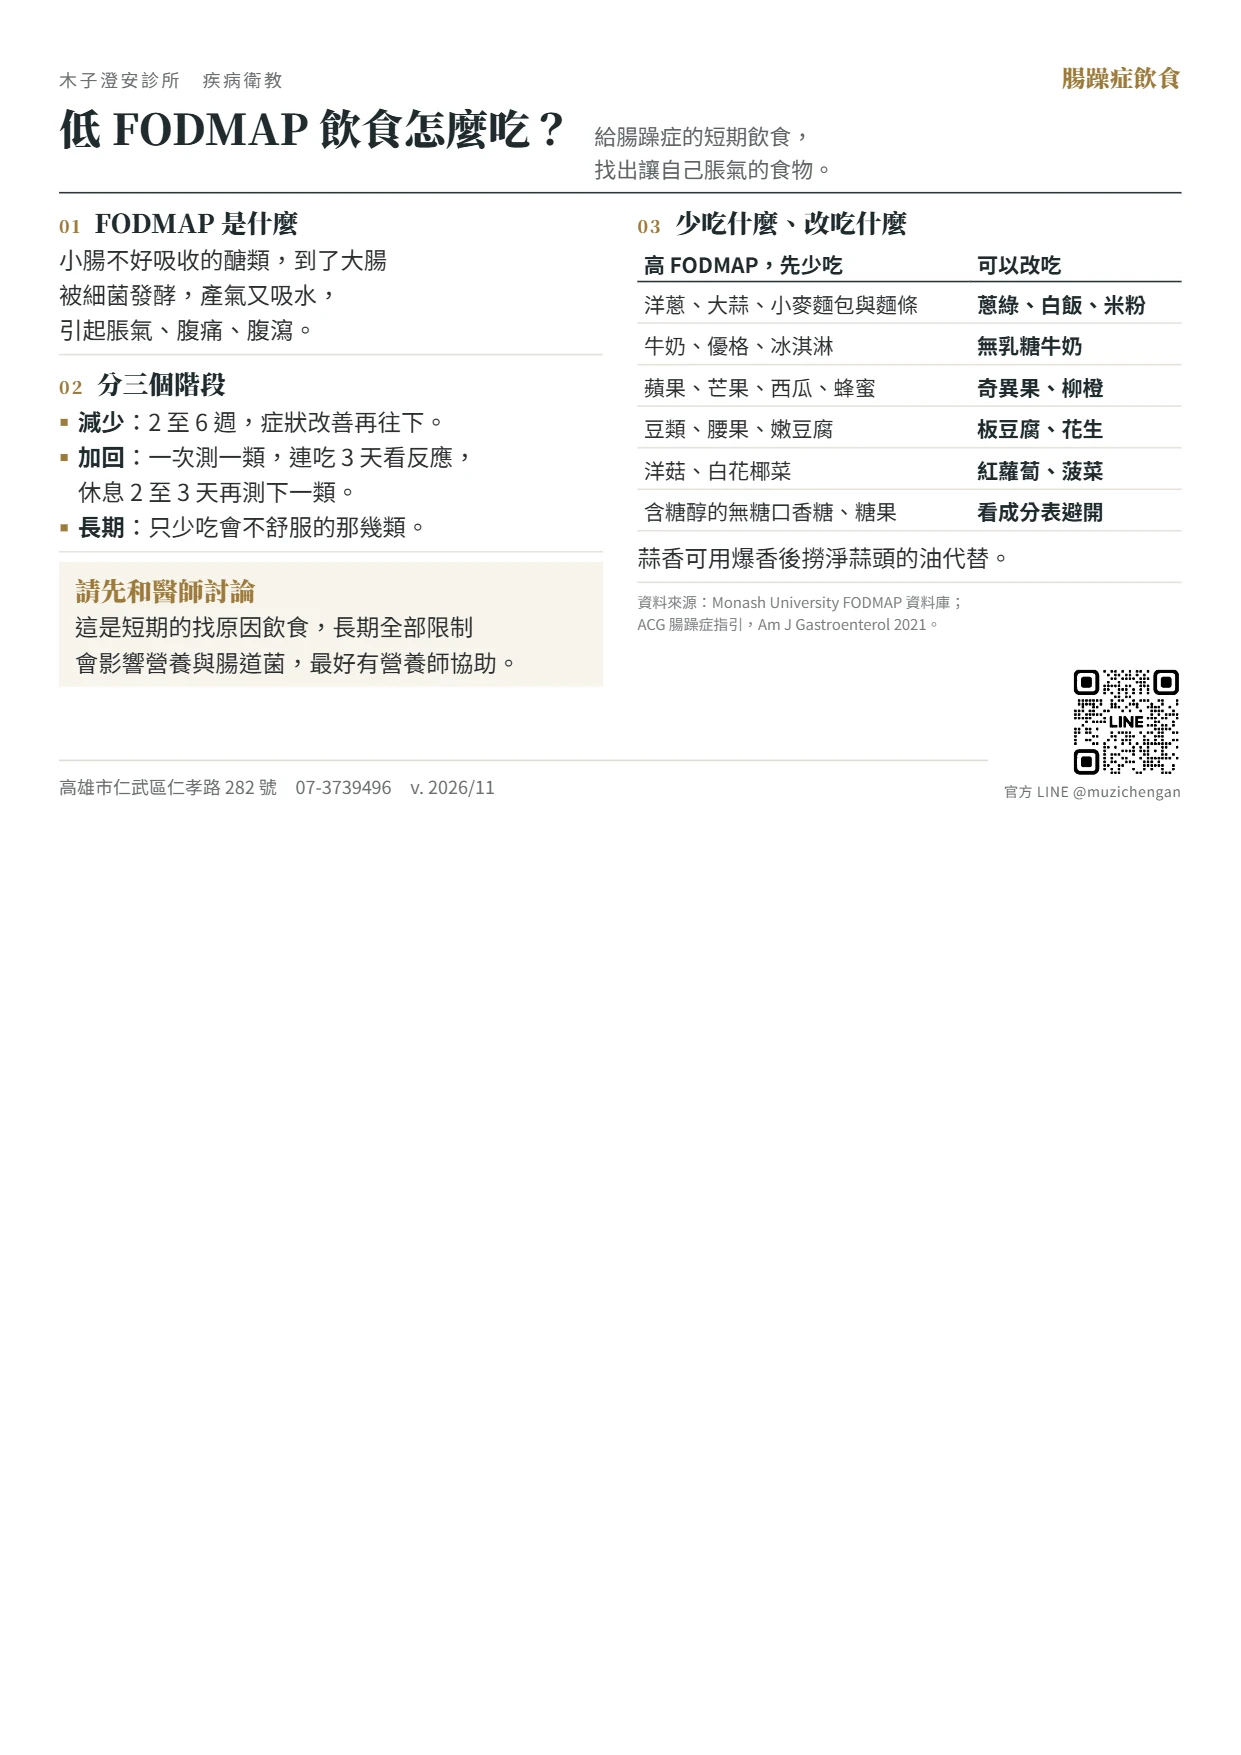
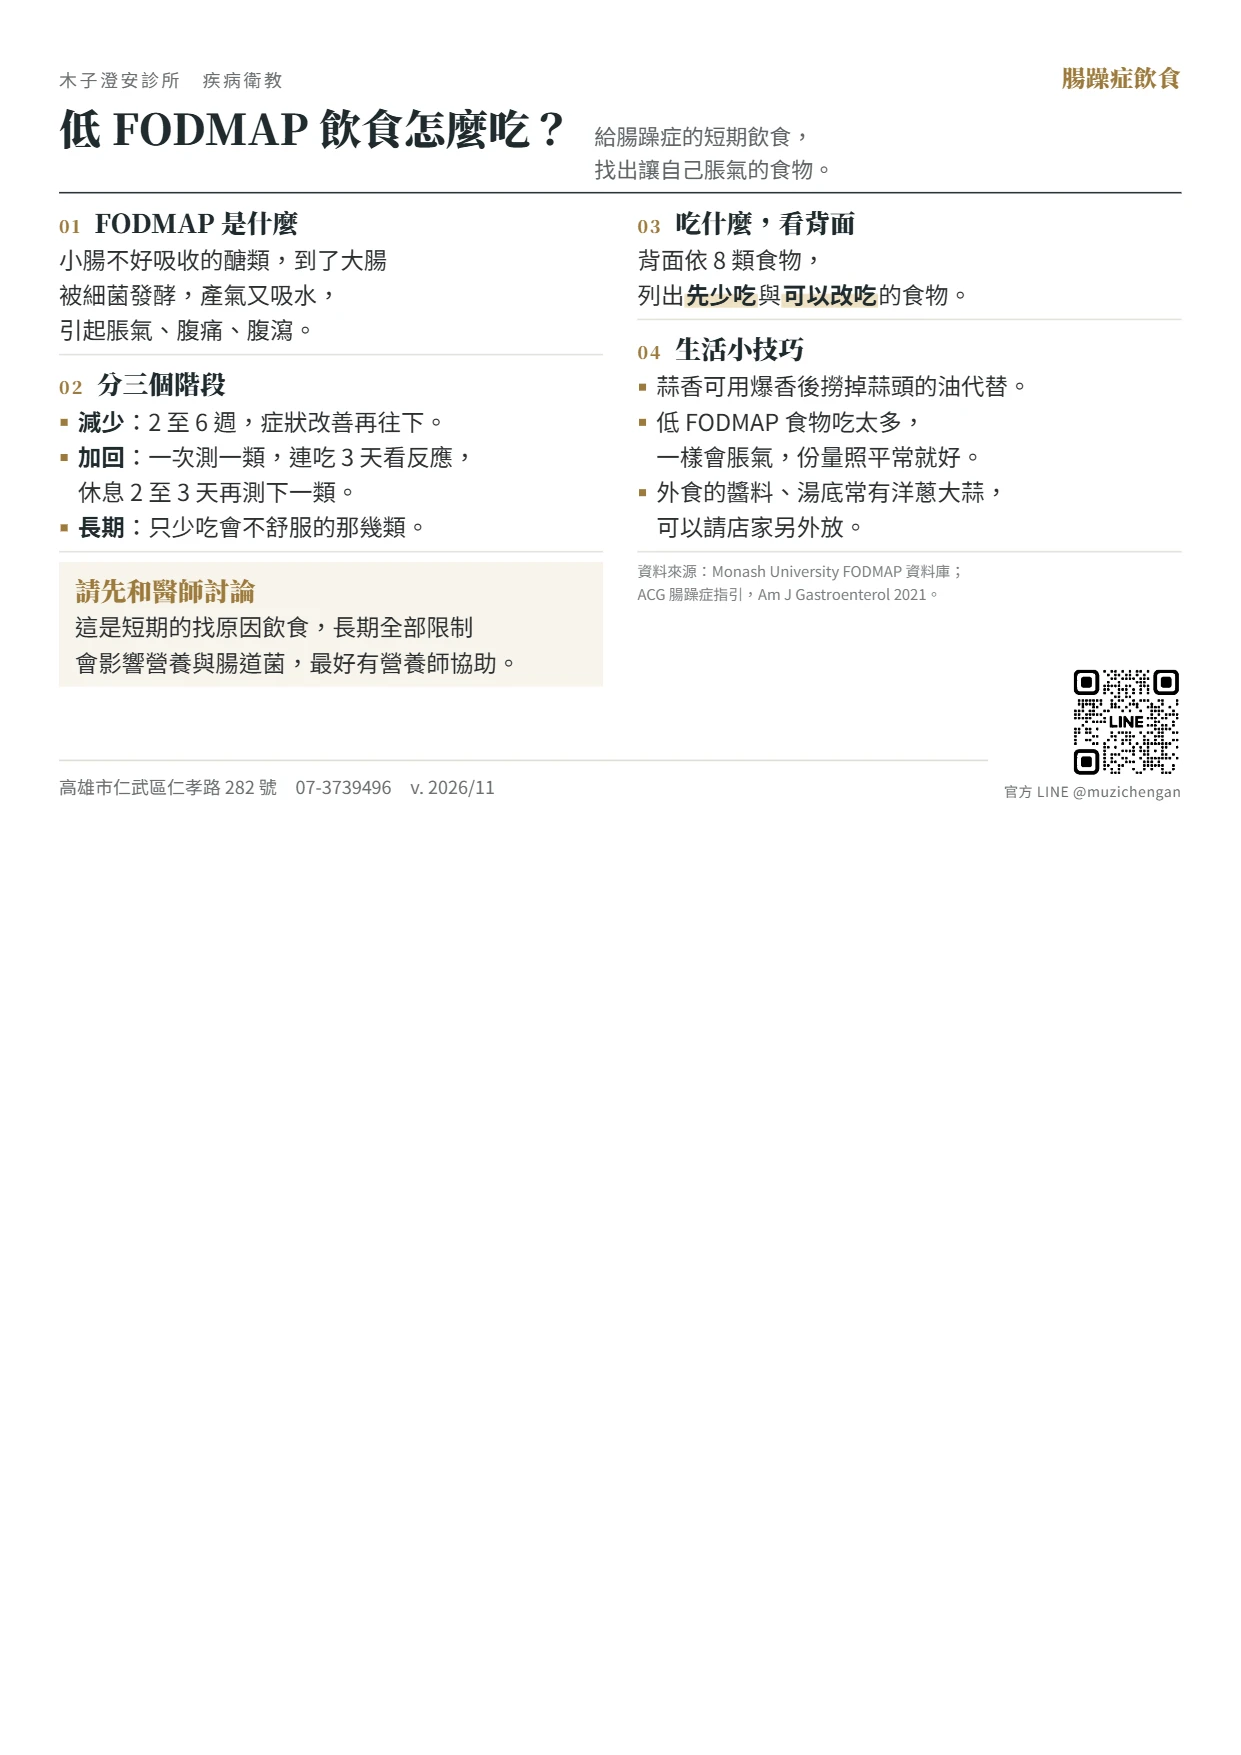
低 FODMAP 衛教改成 A5 正反兩頁：背面 8 類食物分類表，正面加生活小技巧
品項依 Monash 資料庫，燕麥片註明乾重 50 克內；小白菜、葡萄、淡紅茶查不到 Monash 原文先拿掉。

Changed region(s): [[0.5205, 0.1231, 0.9492, 0.3692]]

diff --git a/edu-src/a5.html b/edu-src/a5.html
@@ -50,6 +50,13 @@ table.tb th{text-align:left; font-weight:700; color:var(--ink); border-bottom:1.
 table.tb td{border-bottom:1px solid var(--line); padding:3px 4px; line-height:1.45; vertical-align:top;}
 table.tb th:last-child, table.tb td:last-child{white-space:nowrap;}
 table.tb td:last-child{font-weight:700; color:var(--ink);}
+/* 食物分類表（低 FODMAP 第 2 頁）：類別｜先少吃｜可以改吃，兩欄品項都可換行 */
+table.fm{width:100%; border-collapse:collapse; margin-top:4px; font-size:14px;}
+table.fm th{text-align:left; font-weight:700; color:var(--ink); border-bottom:1.2px solid #2A3438; padding:2px 5px;}
+table.fm td{border-bottom:1px solid var(--line); padding:2px 5px; line-height:1.45; vertical-align:top;}
+table.fm td:first-child{font-family:'Noto Serif TC',serif; font-weight:900; color:var(--ink); white-space:nowrap; width:76px;}
+table.fm td.lo{font-weight:700; color:var(--ink);}
+table.fm th.hi{color:var(--red);}
 .src{font-size:9.5px; color:#7A7E80; margin-top:4px; line-height:1.5;}
 /* 頁尾：左邊一行地址、電話與版本（診所名稱已在頁首，不重複），右下角官方 LINE QR code。
    QR code 疊在頁尾右側往上突出，頁尾高度只由地址決定，左欄可以多用一些高度；右欄內容不可壓到 QR code（見 fitReport） */
@@ -1030,19 +1037,38 @@ table.tb td:last-child{font-weight:700; color:var(--ink);}
       <div class="box"><div class="t">請先和醫師討論</div><div class="c">這是短期的找原因飲食，長期全部限制<br>會影響營養與腸道菌，最好有營養師協助。</div></div>
     </div>
     <div class="col">
-      <div class="row"><div class="k"><small>03</small><b>少吃什麼、改吃什麼</b></div>
-        <div class="v">
-          <table class="tb">
-            <tr><th>高 FODMAP，先少吃</th><th>可以改吃</th></tr>
-            <tr><td>洋蔥、大蒜、小麥麵包與麵條</td><td>蔥綠、白飯、米粉</td></tr>
-            <tr><td>牛奶、優格、冰淇淋</td><td>無乳糖牛奶</td></tr>
-            <tr><td>蘋果、芒果、西瓜、蜂蜜</td><td>奇異果、柳橙</td></tr>
-            <tr><td>豆類、腰果、嫩豆腐</td><td>板豆腐、花生</td></tr>
-            <tr><td>洋菇、白花椰菜</td><td>紅蘿蔔、菠菜</td></tr>
-            <tr><td>含糖醇的無糖口香糖、糖果</td><td>看成分表避開</td></tr>
-          </table>
-          <p style="margin-top:4px">蒜香可用爆香後撈淨蒜頭的油代替。</p></div></div>
+      <div class="row"><div class="k"><small>03</small><b>吃什麼，看背面</b></div>
+        <div class="v"><p>背面依 8 類食物，<br>列出<span class="hl">先少吃</span>與<span class="hl">可以改吃</span>的食物。</p></div></div>
+      <div class="row"><div class="k"><small>04</small><b>生活小技巧</b></div>
+        <div class="v"><ul class="d">
+          <li>蒜香可用爆香後撈掉蒜頭的油代替。</li>
+          <li>低 FODMAP 食物吃太多，<br>一樣會脹氣，份量照平常就好。</li>
+          <li>外食的醬料、湯底常有洋蔥大蒜，<br>可以請店家另外放。</li>
+        </ul></div></div>
       <p class="src">資料來源：Monash University FODMAP 資料庫；<br>ACG 腸躁症指引，Am J Gastroenterol 2021。</p>
+    </div>
+  </div>
+  <div class="foot"><div class="addr">高雄市仁武區仁孝路 282 號<span>07-3739496</span><span>v. 2026/11</span></div><div class="qr"><img src="../calc/qr.png" alt=""><span>官方 LINE @muzichengan</span></div></div>
+</section>
+
+<!-- ───────── 腸胃 06 低 FODMAP 飲食 第 2 頁：食物分類表（2026/11/23 新增，品項依 Monash 資料庫） ───────── -->
+<section class="page" data-out="edu-a5-low-fodmap-2">
+  <div class="top"><span>木子澄安診所　疾病衛教</span><span class="no"><b>腸躁症飲食</b></span></div>
+  <div class="head"><h1>食物分類表</h1><p class="lead">減少期先避開左欄，<br>改吃右欄的食物。</p></div>
+  <div class="rule"></div>
+  <div class="cols" style="grid-template-columns:1fr">
+    <div class="col">
+      <table class="fm">
+        <tr><th>類別</th><th class="hi">高 FODMAP，先少吃</th><th>低 FODMAP，可以改吃</th></tr>
+        <tr><td>蔬菜</td><td>洋蔥、大蒜、蔥白、韭菜、蘆筍、<br>洋菇、白花椰菜</td><td class="lo">蔥綠、紅蘿蔔、菠菜、高麗菜、茄子、<br>番茄、小黃瓜、青椒</td></tr>
+        <tr><td>水果</td><td>蘋果、梨子、芒果、西瓜、水蜜桃、<br>櫻桃、果乾</td><td class="lo">未熟香蕉、奇異果、柳橙、鳳梨、<br>草莓、木瓜</td></tr>
+        <tr><td>奶類</td><td>牛奶、優格、冰淇淋、煉乳</td><td class="lo">無乳糖牛奶、切達起司等硬質起司</td></tr>
+        <tr><td>蛋白質</td><td>紅豆、綠豆、黃豆、豆漿、嫩豆腐</td><td class="lo">雞蛋、肉類、魚蝦、板豆腐</td></tr>
+        <tr><td>堅果種子</td><td>腰果、開心果</td><td class="lo">花生、核桃、南瓜子</td></tr>
+        <tr><td>五穀</td><td>小麥麵包、麵條、饅頭、包子、黑麥</td><td class="lo">白飯、糙米、米粉、粄條、<br>燕麥片（乾重 50 克內）</td></tr>
+        <tr><td>飲料</td><td>果汁、含高果糖糖漿的手搖飲、甘菊茶</td><td class="lo">白開水、黑咖啡、綠茶</td></tr>
+        <tr><td>甜味</td><td>蜂蜜、高果糖糖漿、含糖醇的無糖口香糖</td><td class="lo">少量砂糖、楓糖漿、少量黑巧克力</td></tr>
+      </table>
     </div>
   </div>
   <div class="foot"><div class="addr">高雄市仁武區仁孝路 282 號<span>07-3739496</span><span>v. 2026/11</span></div><div class="qr"><img src="../calc/qr.png" alt=""><span>官方 LINE @muzichengan</span></div></div>

diff --git a/revision.js b/revision.js
@@ -2,7 +2,7 @@
    工作台（index.html）與臨床計算病人版（calc/index.html）都先載入這份，各工具再從 REVISION 讀自己的日期。
    報價單上的「價目版本」不在這裡：價格有變才改，見 quote/app.js 的 Q_PRICE_VERSION。 */
 const REVISION = {
-  hub:     '2026-11-22',
+  hub:     '2026-11-23',
   quote:   '2026-11-19',
   calc:    '2026-11-22',
   weight:  '2026-11-19',
@@ -12,8 +12,6 @@ const REVISION = {
 /* 工作台左下角只顯示最新的一個日期（上面五個取最晚的），點一下會跳出這次改了什麼。
    每次改版就把這裡整份換成「當次」的簡短說明，一行一件事；不要把前幾次的說明留著累加。 */
 const REVISION_NOTE = [
-  "降血脂給付依健保 115/12/1 修訂：Livalo 改列表一品項，Zovastin、Livazebe HD 不必再滿 3 個月",
-  "PCSK9 加入 inclisiran 的給付條件與用法",
-  "A5 衛教右上改寫簡短標題或疾病分類，不再標編號（減重維持編號）",
-  "鎮靜用藥指引：心跳過慢改為 atropine 1 mg（AHA ACLS 2020 起）"
+  "低 FODMAP 衛教改成 A5 正反兩頁：背面是 8 類食物分類表（先少吃／可以改吃）",
+  "正面加上生活小技巧：蒜油、份量、外食醬料"
 ];

diff --git a/edu/edu.js b/edu/edu.js
@@ -100,7 +100,7 @@ const EDU_LIST = [
   ['disease', '腸胃',     '功能性消化不良',   ICON.stomach,  ['img/edu-a5-functional-dyspepsia.webp'], 'A5'],
   ['disease', '腸胃',     '急性腸胃炎',       ICON.germ,     ['img/edu-a5-gastroenteritis.webp'], 'A5'],
   ['disease', '腸胃',     '便祕與腸躁症',     ICON.germ,     ['img/edu-a5-constipation-ibs.webp'], 'A5'],
-  ['disease', '腸胃',     '低 FODMAP 飲食',   ICON.leaf,     ['img/edu-a5-low-fodmap.webp'], 'A5'],
+  ['disease', '腸胃',     '低 FODMAP 飲食',   ICON.leaf,     ['img/edu-a5-low-fodmap.webp', 'img/edu-a5-low-fodmap-2.webp'], 'A5'],
   // 2026/11/12 把「痔瘡怎麼治療」併進這一張，只留一張
   ['disease', '腸胃',     '痔瘡分級與治療',   ICON.polyp,    ['img/edu-a5-hemorrhoids.webp'], 'A5'],
   ['disease', '腸胃',     '糞便潛血陽性',     ICON.drop,     ['img/edu-a5-fit-positive.webp'], 'A5'],

diff --git a/sw.js b/sw.js
@@ -9,7 +9,7 @@
    工作台開啟後會把所有衛教與表單圖片預先存下，斷網時也能顯示與列印。
    網路很慢（伺服器 3 秒內沒回應，圖片 6 秒）時先用快取開啟，背景照樣把新版存下，下次開啟就是新版；
    以前會一直等到連線逾時，網路卡住時整個工作台白畫面。 */
-const CACHE = 'tools-v106';
+const CACHE = 'tools-v107';
 const CORE = [
   './', 'index.html',
   'mount.js', 'revision.js',
